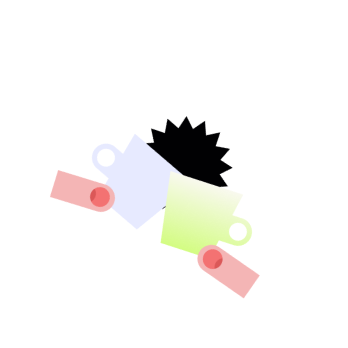
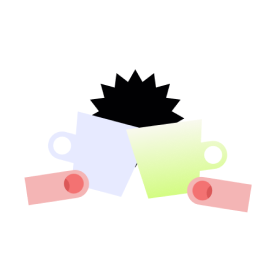
feat: 最後に乾杯したペアを表示

Changed region(s): [[0.3372, 0.2759, 0.9808, 0.8582], [0.092, 0.6437, 0.3678, 0.7969], [0.1226, 0.4904, 0.3372, 0.613]]

diff --git a/src/App.tsx b/src/App.tsx
@@ -1,12 +1,16 @@
 import { collection, getDocs, onSnapshot } from "firebase/firestore";
 import LogoImage from "./assets/logo.png";
+
 import { db } from "./libs/firebase";
 import { useEffect, useState } from "react";
 import { User } from "./types/user";
 import { Cheer } from "./types/cheer";
+import CheersPair from "./components/KanpaiPair";
 
 function App() {
   const [users, setUsers] = useState<User[]>();
+  const [fromUser, setFromUser] = useState<User>();
+  const [toUser, setToUser] = useState<User>();
   const [latestCheers, setLatestCheers] = useState<Cheer>();
   const [totalCheersCount, setTotalCheersCount] = useState<number>(0);
 
@@ -17,7 +21,9 @@ function App() {
         querySnapshot.docs.map((doc) => ({ ...doc.data(), id: doc.id }))
       );
     });
+  }, []);
 
+  useEffect(() => {
     const cheersCollectionRef = collection(db, "cheers");
     const unsubscribe = onSnapshot(cheersCollectionRef, (querySnapshot) => {
       querySnapshot.docChanges().forEach((change) => {
@@ -29,12 +35,14 @@ function App() {
         }
       });
       setTotalCheersCount(querySnapshot.size);
+      setFromUser(users?.find((user) => user.id === latestCheers?.fromUserId));
+      setToUser(users?.find((user) => user.id === latestCheers?.toUserId));
     });
     return unsubscribe;
-  }, []);
+  }, [latestCheers?.fromUserId, latestCheers?.toUserId, users]);
 
   return (
-    <div className="w-screen h-screen flex justify-center items-center bg-[url('./assets/confetti.png')] bg-[#1637FC] bg-contain bg-no-repeat bg-center">
+    <div className="w-screen h-screen flex justify-center items-center bg-[url('./assets/confetti.png')] bg-[#1637FC] bg-contain bg-no-repeat bg-center relative">
       <div className="flex text-white justify-center items-center flex-col">
         <h1 className="text-[54px] font-semibold">会場の総乾杯数</h1>
         <p className="font-[Chillax] text-[250px] leading-none">
@@ -42,6 +50,44 @@ function App() {
         </p>
         <img src={LogoImage} alt="Kanpai!" />
       </div>
+      {fromUser && toUser && (
+        <div>
+          <CheersPair
+            fromUser={fromUser}
+            toUser={toUser}
+            position={{ top: "-10%", left: "5%" }}
+            rotate="25deg"
+          />
+          <CheersPair
+            fromUser={fromUser}
+            toUser={toUser}
+            position={{ top: "5%", right: "5%" }}
+            rotate="-34deg"
+            scale={0.9}
+          />
+          <CheersPair
+            fromUser={fromUser}
+            toUser={toUser}
+            position={{ bottom: "15%", left: "12%" }}
+            rotate="-8deg"
+            scale={0.8}
+          />
+          <CheersPair
+            fromUser={fromUser}
+            toUser={toUser}
+            position={{ bottom: "5%", right: "20%" }}
+            rotate="30deg"
+            scale={0.7}
+          />
+          <CheersPair
+            fromUser={fromUser}
+            toUser={toUser}
+            position={{ bottom: "15%", right: "2%" }}
+            rotate="-30deg"
+            scale={0.5}
+          />
+        </div>
+      )}
     </div>
   );
 }

diff --git a/src/components/KanpaiPair.tsx b/src/components/KanpaiPair.tsx
@@ -1,0 +1,45 @@
+import { User } from "../types/user";
+import KanpaiImage from "../assets/kanpai.png";
+
+type Position = {
+  top?: number | string;
+  left?: number | string;
+  right?: number | string;
+  bottom?: number | string;
+  scale?: number;
+};
+
+type CheersPairProps = {
+  fromUser: User;
+  toUser: User;
+  position: Position;
+  rotate: string;
+  scale?: number;
+};
+
+const CheersPair: React.FC<CheersPairProps> = ({
+  fromUser,
+  toUser,
+  position,
+  rotate = "0deg",
+  scale = 1,
+}) => {
+  return (
+    <div
+      className="absolute"
+      style={{ ...position, transform: `rotate(${rotate}) scale(${scale})` }}
+    >
+      <img
+        src={fromUser?.profileImageUrl}
+        className="rounded-full absolute -left-[45%] top-1/2 bottom-1/2 w-[150px] transform -translate-y-[10%]"
+      />
+      <img src={KanpaiImage} />
+      <img
+        src={toUser?.profileImageUrl}
+        className="rounded-full absolute -right-[45%] top-1/2 bottom-1/2 w-[150px] transform -translate-y-[10%]"
+      />
+    </div>
+  );
+};
+
+export default CheersPair;
